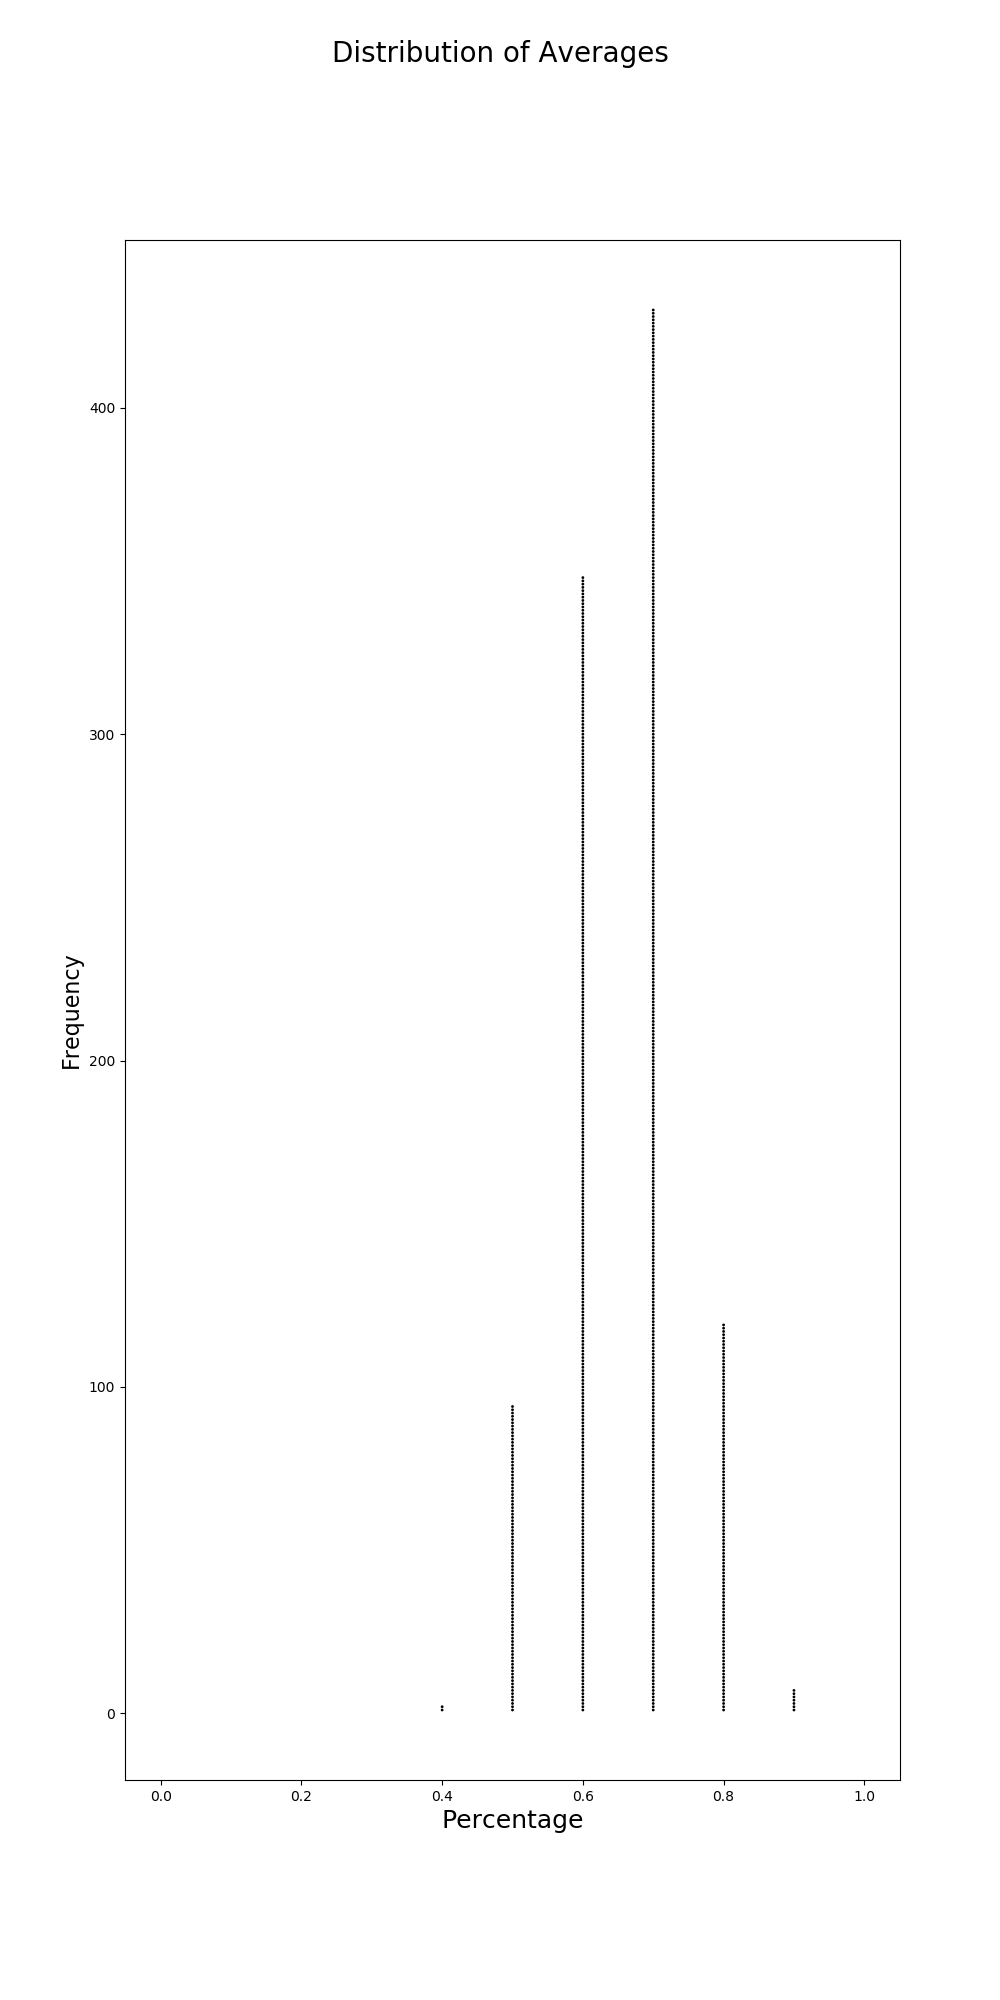
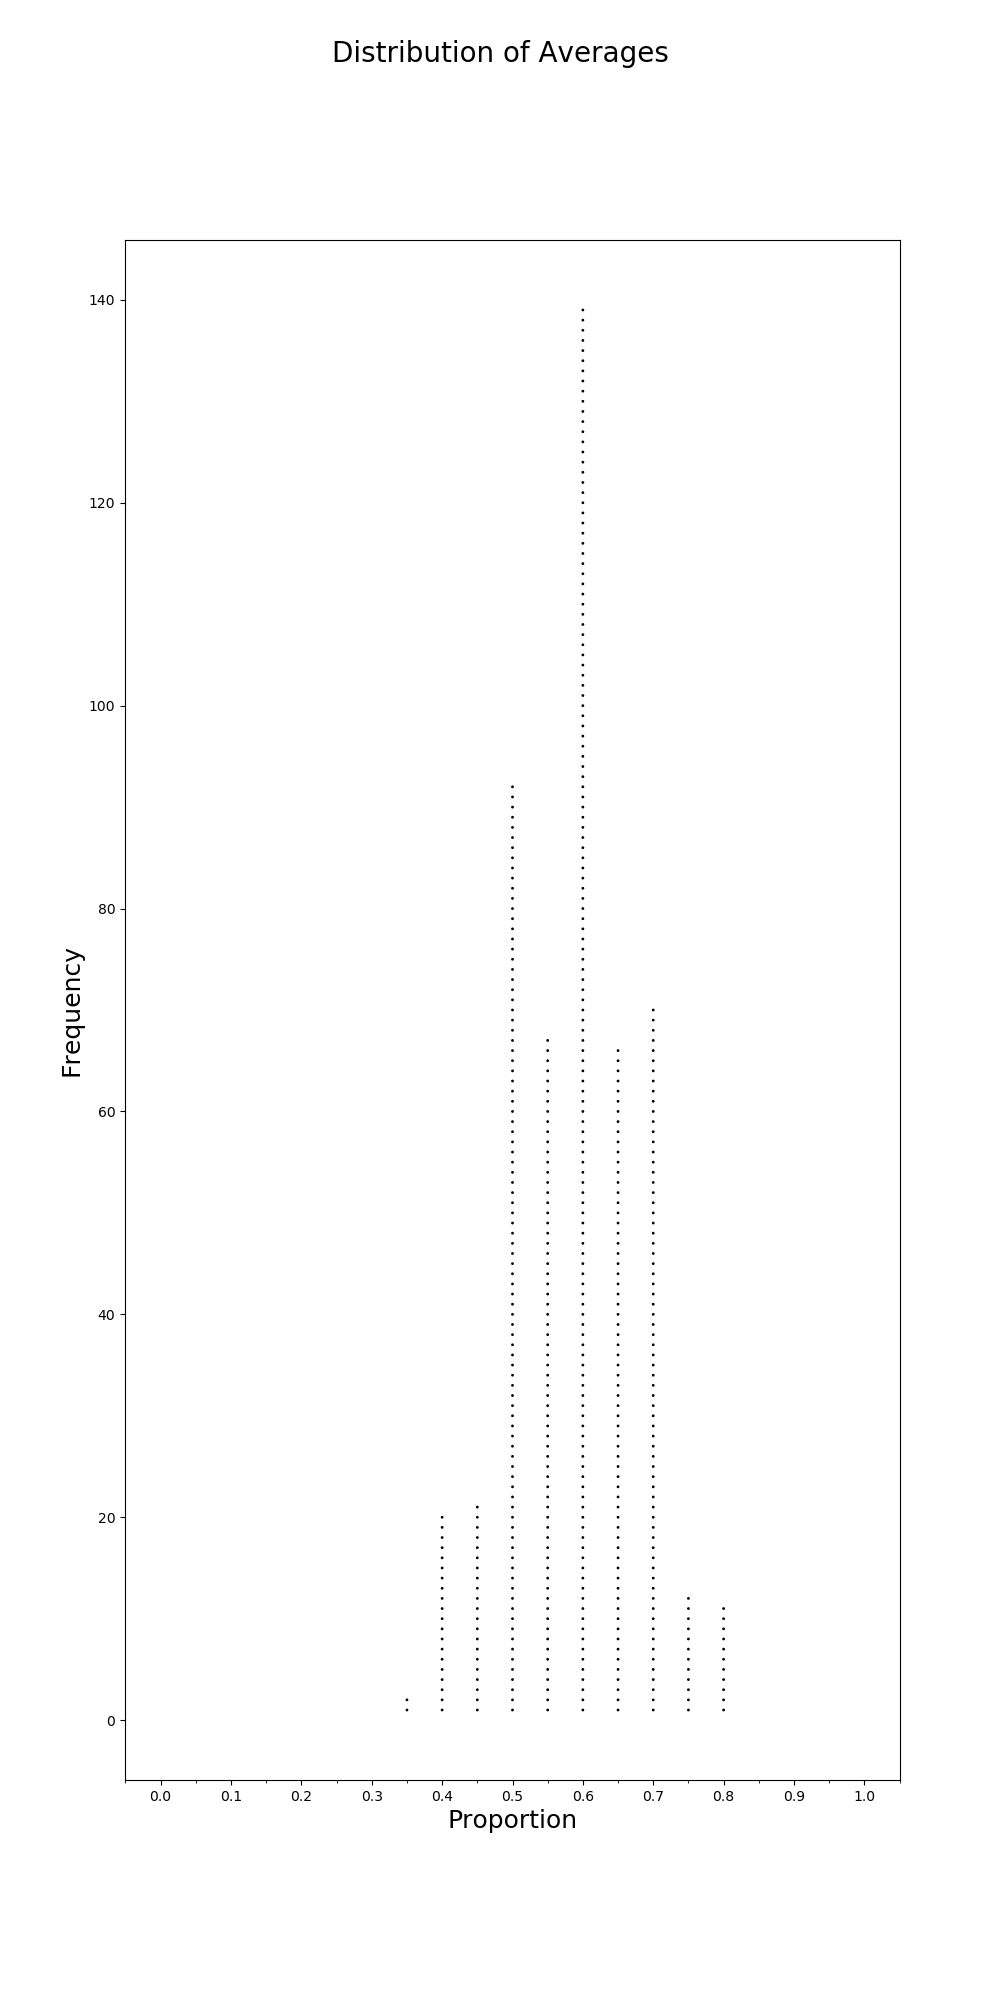
Updated script.py

diff --git a/script.py b/script.py
@@ -7,56 +7,92 @@ Created on Fri Nov 29 17:40:01 2019
 1. Take sample of random numbers. size = 30
 2. take mean
 3. add mean to new list
-4. repeat 500 times
+4. repeat >200 times
 """
 
 import sys
 import numpy as np
 import matplotlib.pyplot as plt
+import matplotlib.ticker as ticker
 import seaborn as sns
 import pandas as pd
 
 
+'''Default values'''
+#Probability
+p = .5
+#Number of trials
+n = 1000
+#Size of bins in percent integer
+b = 5
+#Size of trials
+t = 50
+
+
 '''Deal with command line arguments'''
-p = float(sys.argv[1])
-n = int(sys.argv[2])
-
-if(len(sys.argv)==4):
-    np.random.seed(sys.argv[3])
-
+if(len(sys.argv)):
+    for i in range(1,len(sys.argv)):
+        #Probability
+        if sys.argv[i][0]=='p':
+            p = float(sys.argv[i][2:])
+            print(p)
+        #Number of Trials
+        elif sys.argv[i][0]=='n':
+            n = int(sys.argv[i][2:])
+            print(n)
+        #Size of bins
+        elif sys.argv[i][0]=='b':
+            b = float(sys.argv[i][2:])
+            print(b)
+        #Size of trials
+        elif sys.argv[i][0]=='t':
+            t = int(sys.argv[i][2:])
+            print(t)
+        #Seed for trial generation
+        elif sys.argv[i][0]=='s':
+            s = int(sys.argv[i][2:])
+            np.random.seed(s)
+        #error if not any of these
+        else:
+            raise ValueError(sys.argv[i],' is not a valid argument.')
+        
 
 '''Take the random sample'''
 avg = []
 for i in range(n):
-    list = np.random.choice(2,30, p=[(1-p),p])
-    avg.append(sum(list)/3.0)
+    list = np.random.choice(2,t, p=[(1-p),p])
+    avg.append(sum(list)*100/t)
 
 
 '''histogram'''
-#sns.kdeplot(avg)
 fig = plt.figure()
 ax = sns.distplot(pd.Series(avg,name="Percent who Said 'Yes'"))
 ax.figure.savefig("histogram")
+ax.clear()
 
 
 '''dotplot :('''
-#number of bins, scaling and labels
-bins = np.arange(12)
-fig = plt.figure(figsize=(10,20))
-fig.suptitle('Distribution of Averages', fontsize=20)
-plt.xlabel('Percentage', fontsize=18)
-plt.ylabel('Frequency', fontsize=16)
+#number of bins
+bins = np.arange((100.0/b)+2)*b
 
-#make the graph
-hist, edges = np.histogram(avg,bins=bins,range=(0,10))
+#figure scaling, axis labels, and ticks
+p = plt.figure(figsize=(10,20))
+ax = plt.axes()
+ax.xaxis.set_major_locator(ticker.MultipleLocator(b/50))
+ax.xaxis.set_minor_locator(ticker.MultipleLocator(b/100))
+p.add_axes(ax)
+p.suptitle('Distribution of Averages', fontsize=20)
+plt.xlabel('Proportion', fontsize=18)
+plt.ylabel('Frequency', fontsize=18)
 
-#make y=frequency and x a percentage
+#set up and set frequency and value tables
+hist, edges = np.histogram(avg,bins=bins,)#range=(0,10))
 y = np.arange(1,hist.max()+1)
-x = np.arange(11)/10.0
+x = np.arange((100.0/b)+1)/(100.0/b)
 X,Y = np.meshgrid(x,y)
 
 #plot the points
-p = plt.scatter(X,Y, c=Y<=hist, cmap="Greys",s=1)
+plt.scatter(X,Y, c=Y<=hist, cmap="Greys",s=1)
 
 #save the figure to dot.png
-p.figure.savefig("dot")
+p.savefig("dot")
